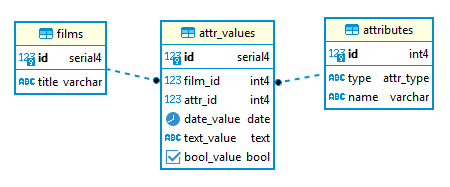
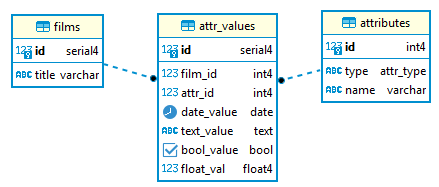
Float type added

Changed region(s): [[0.0, 0.0535, 1.0, 0.9893]]

diff --git a/readme.md b/readme.md
@@ -13,7 +13,8 @@
 CREATE TYPE public."attr_type" AS ENUM (
 	'text',
 	'date',
-	'bool');
+	'bool',
+	'float');
 ```
 
 Наглядно схема хранения представлена на рисунке:
@@ -44,6 +45,7 @@ AS SELECT f.title, a.name,
             WHEN a.type = 'text'::attr_type THEN v.text_value
             WHEN a.type = 'date'::attr_type THEN to_char(v.date_value::timestamp with time zone, 'DD.MM.YYYY'::text)
             WHEN a.type = 'bool'::attr_type THEN v.bool_value::text
+            WHEN a.type = 'float'::attr_type THEN v.float_val::text
             ELSE NULL::text
         END AS text_value
    FROM films f
